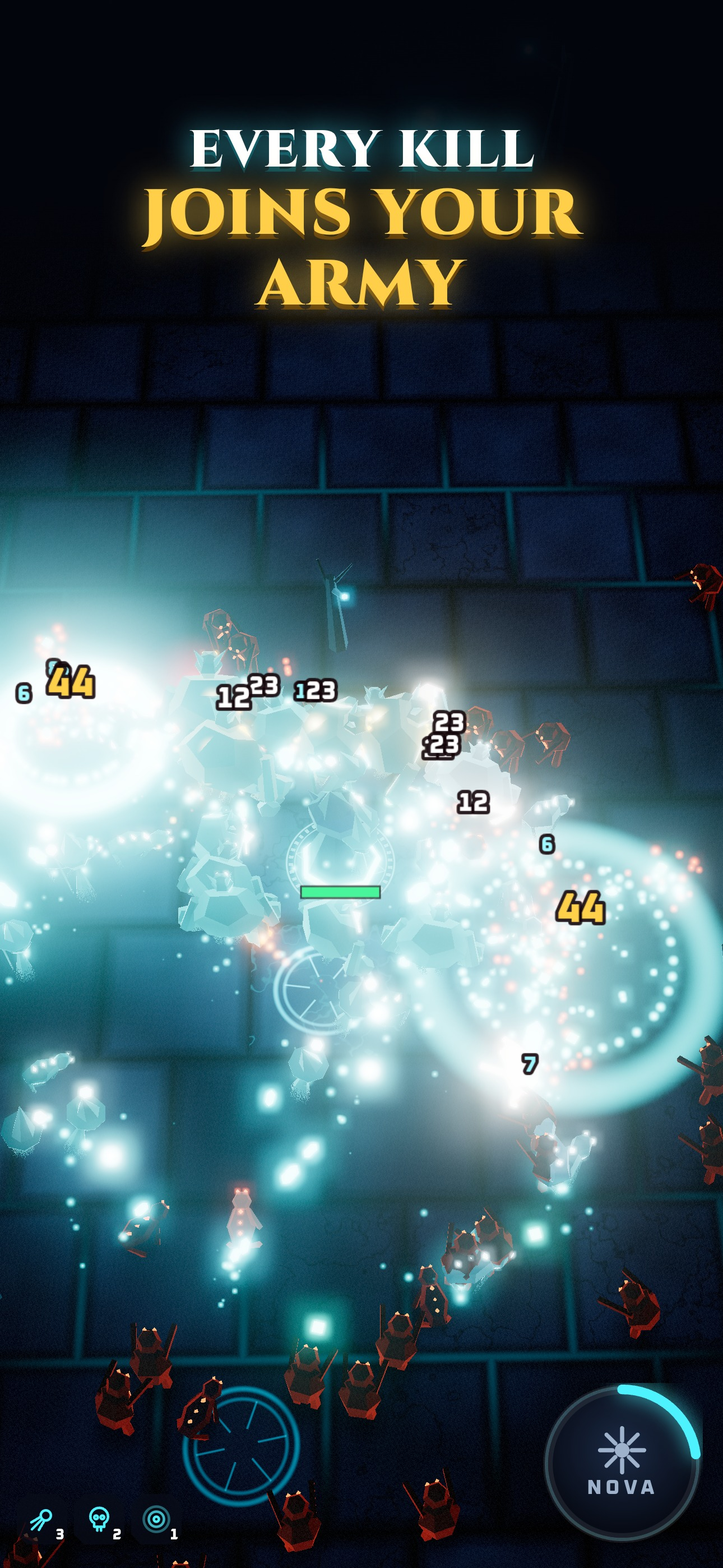
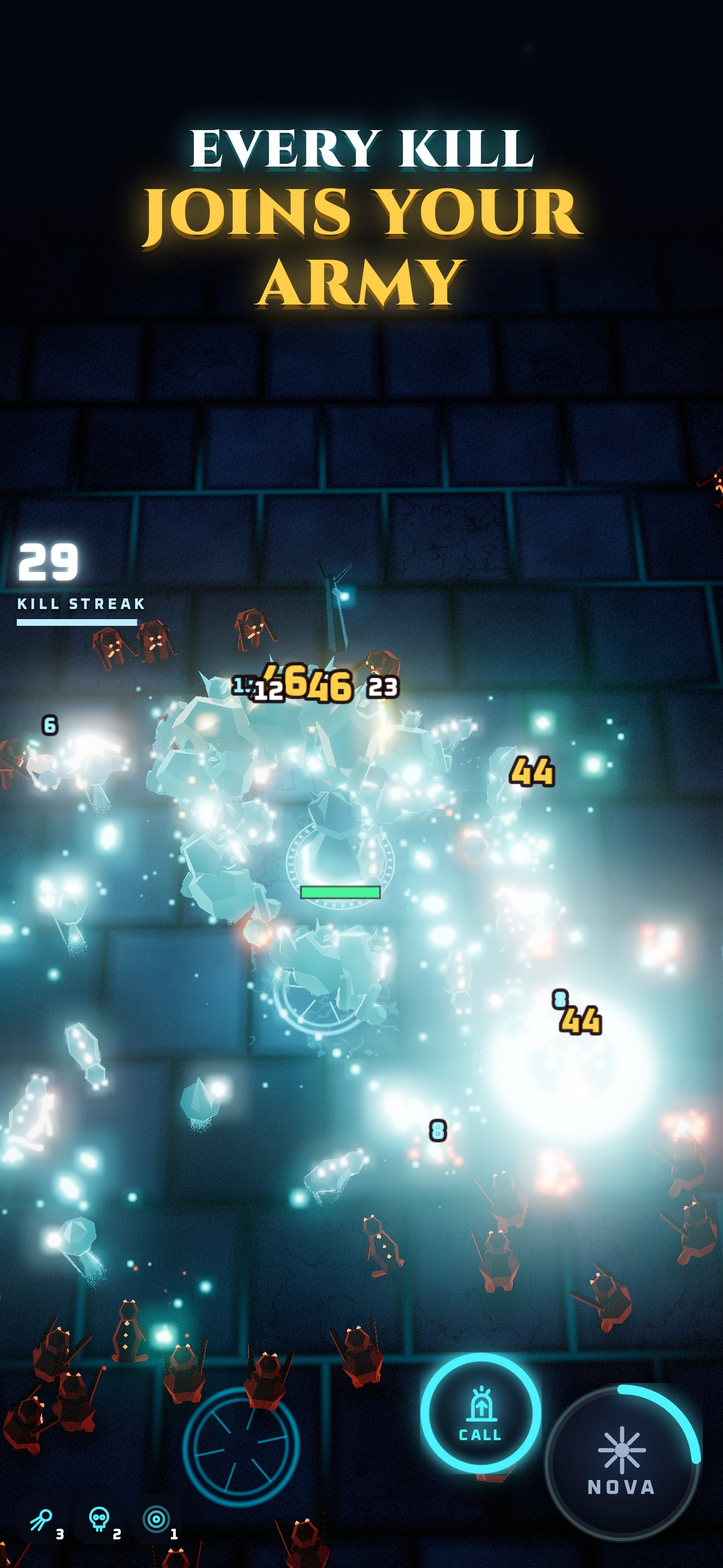
Refresh the store screenshots for Update 3; add Rite and Torment shots
All shots now show the RITE button and the kill-streak counter. New:
07 UNLEASH YOUR HERO'S RITE (Seraphine's Ashfall) and 08 DARE NIGHTMARE
& TORMENT (Ch5 Torment, a Warded + Hasted elite). The Nova shot waits out
the new 0.25 s wind-up so it lands on the same moment of the chain; run
events are silenced while staging. MARKETING §4 now lists the 8 shots
as rendered.

Claude-Session: https://claude.ai/code/session_01DX1po8f5ZYrvYHyaVKA9nN

diff --git a/soulswarm/docs/MARKETING.md b/soulswarm/docs/MARKETING.md
@@ -87,18 +87,22 @@ Google Play has no keyword field.
 
 ---
 
-## 4. Store screenshot storyboard (6 portrait screenshots)
+## 4. Store screenshot storyboard (8 portrait screenshots)
 
 Format: iOS 6.9" (1320 × 2868) is required, and the 6.5" set is derived from it. Android 1080 × 1920 (9:16). The **first 3 screenshots appear in search results**, so they carry all three hooks. Captions are 2–5 words, huge, at the top in the gothic display font, with cyan for allies and warm colours for enemies.
 
 | # | Caption | Scene | Composition notes |
 |---|---|---|---|
-| 1 | **RAISE THE LEGION** | End of a Ch1 run: Vael in the centre, ~300 cyan minions in orbit rings, a wall of ember Husks on the edges | Legion counter "LEGION 312" enlarged in the HUD. This is the hero shot. |
-| 2 | **PICK THE RIGHT GATE** | Two glowing gates, `+25` and `×2`, legion of 37 (a real 1:08 pair), a Brute lurking behind the ×2 gate | Large "?" between the gates. Thumb-shaped arrow toward ×2. |
-| 3 | **SACRIFICE THE SWARM. WIPE THE SCREEN.** | Mid-Nova: a chain of cyan explosions rippling out, enemies vaporising | Peak bloom frame. NOVA button visibly pressed. |
-| 4 | **TOPPLE THE HOLLOW KING** | Gravemaw, magenta, mid-slam with telegraph rings, legion charging him | Boss health bar visible. Strong diagonal composition. |
+| 1 | **EVERY KILL JOINS YOUR ARMY** | Chapter 1 at 2:30: Vael in a mixed legion (every minion kind plus gold Champions) inside two rings of the horde | The hero shot. The kill-streak counter shows at the left edge. |
+| 2 | **PICK THE RIGHT GATE** | A ×3 / ÷2 Soul Gate pair ahead of a 45-soul legion | Both gates readable; the legion heads for ×3. |
+| 3 | **DETONATE THE LEGION** | Mid-Nova: 180 souls detonating in a chain through two rings of the horde | Peak bloom frame, 0.45 s into the chain (after the 0.25 s wind-up). |
+| 4 | **SLAY THE HOLLOW KING** | Gravemaw mid Grave Slam telegraph, facing the camera, the legion around Vael | Ring bands and safe lanes visible. |
 | 5 | **COLLECT LEGENDARY SHEPHERDS** | The heroes screen with all five painted hero cards (Vael, Nyx, Seraphine, Liora, Mordrake) | Rarity frames (Common → Legendary) and star rows visible. |
-| 6 | **CLIMB THE ENDLESS ABYSS** (Planned; needs Endless Abyss and Blood Moon to ship) | Endless Abyss run at 12:00 with the weekly leaderboard panel overlaid | "Blood Moon weekend: 2× rewards" banner along the bottom |
+| 6 | **FIVE CURSED CHAPTERS** | Chapter 2 (Ember Wastes): a ring of Cinder Witches and their fire lobs | Chapter palette and hazards. |
+| 7 | **UNLEASH YOUR HERO'S RITE** | Seraphine casts Ashfall: ash chains rain on the horde | The RITE button and the Soul Frenzy chip visible. |
+| 8 | **DARE NIGHTMARE & TORMENT** | Chapter 5 on Torment: the blood-red floor, a Warded and Hasted elite with its tags, Vael's cyan legion | Shows the endgame tiers and elite affixes. |
+
+Rendered by `npm run screenshots` (`scripts/store-screenshots.mjs`) at 1290 × 2796. Order matters: 1–3 appear in search results.
 
 **App preview video (iOS, 25 s):** 0–3 s legion growing (hook 1) → 3–9 s gate choice → 9–15 s Nova wipe → 15–21 s Gravemaw fight → 21–25 s logo + "Raise the Legion". In-game audio only. No device frames (per Apple's guidelines).
 
